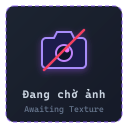
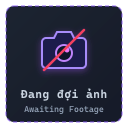
feat(stellarity): chuyen 8 mob va Ender Dragon sang placeholder Dang doi anh (BUG-79)

diff --git a/stellarity.html b/stellarity.html
@@ -1052,13 +1052,13 @@
           <!-- Đại Boss 1: Rồng Ender (Jean Rework) -->
           <article class="item-recipe-card" style="margin-bottom: 24px; border-color: rgba(168, 85, 247, 0.4);">
             <div class="item-recipe-top">
-              <div class="item-sprite-box" data-mc-tooltip="Ender Dragon" style="width: 120px; height: 120px;">
-                <img src="assets/images/entities/ender_dragon.png" alt="Ender Dragon" class="mob-render-img" loading="lazy" style="width: 110px; height: 110px;">
+              <div class="item-sprite-box" data-mc-tooltip="Đang đợi ảnh" style="width: 120px; height: 120px;">
+                <img src="assets/images/entities/placeholder_awaiting.png" alt="Đang đợi ảnh" class="placeholder-img" loading="lazy" style="width: 104px; height: 104px; object-fit: contain;">
               </div>
               <div class="item-meta">
                 <div class="item-meta-header">
                   <h3 class="item-meta-title" style="font-size: 1.25rem;">Upgraded Ender Dragon</h3>
-                  <span class="mechanic-badge badge-void">300 HP · Giáp Nội Tại · Anti-Bed Cheese</span>
+                  <span class="mechanic-badge badge-void">Đang đợi ảnh</span>
                 </div>
                 <div class="item-stats-line">Máu: 300 HP · Giáp: 12 Armor · Kháng Nổ Giường · Khiên Tinh Thể Miễn Nhiễm Sát Thương</div>
                 <p class="item-effect-desc">
@@ -1232,13 +1232,13 @@
           <!-- Đại Boss 3: Shulking (Vua Shulk) -->
           <article class="item-recipe-card" style="margin-bottom: 24px; border-color: rgba(192, 132, 252, 0.45);">
             <div class="item-recipe-top">
-              <div class="item-sprite-box" data-mc-tooltip="Đang chờ ảnh" style="width: 120px; height: 120px; background: radial-gradient(circle at center, rgba(192, 132, 252, 0.22) 0%, #070b19 80%);">
-                <img src="assets/images/entities/placeholder_awaiting.png" alt="Đang chờ ảnh" class="placeholder-img" loading="lazy" style="width: 104px; height: 104px; object-fit: contain;">
+              <div class="item-sprite-box" data-mc-tooltip="Đang đợi ảnh" style="width: 120px; height: 120px; background: radial-gradient(circle at center, rgba(192, 132, 252, 0.22) 0%, #070b19 80%);">
+                <img src="assets/images/entities/placeholder_awaiting.png" alt="Đang đợi ảnh" class="placeholder-img" loading="lazy" style="width: 104px; height: 104px; object-fit: contain;">
               </div>
               <div class="item-meta">
                 <div class="item-meta-header">
                   <h3 class="item-meta-title" style="font-size: 1.25rem;">Shulking (Vua Shulk)</h3>
-                  <span class="mechanic-badge badge-void">Boss Pháo Đài End City · Bossbar Riêng</span>
+                  <span class="mechanic-badge badge-void">Đang đợi ảnh</span>
                 </div>
                 <div class="item-stats-line">Máu cấu hình (Configurable) · Triệu hồi bằng Shulker Body tại Altar of The Sacred · Phá vỡ địa hình Purpur</div>
                 <p class="item-effect-desc">
@@ -1293,13 +1293,13 @@
             <!-- Mob 1: Enderman Rework -->
             <article class="item-recipe-card">
               <div class="item-recipe-top">
-                <div class="item-sprite-box">
-                  <img src="assets/images/entities/enderman.png" alt="Enderman 3D Render" class="mob-render-img" loading="lazy">
+                <div class="item-sprite-box" data-mc-tooltip="Đang đợi ảnh">
+                  <img src="assets/images/entities/placeholder_awaiting.png" alt="Đang đợi ảnh" class="placeholder-img" loading="lazy">
                 </div>
                 <div class="item-meta">
                   <div class="item-meta-header">
                     <h3 class="item-meta-title">Enderman (Đại Tu Cơ Chế)</h3>
-                    <span class="mechanic-badge badge-void">Xuyên Giáp Khi Không Khiên</span>
+                    <span class="mechanic-badge badge-void">Đang đợi ảnh</span>
                   </div>
                   <div class="item-stats-line">Máu: 40 HP · Sát thương: 7–10 · Tốc độ dịch chuyển x1.5</div>
                   <p class="item-effect-desc">
@@ -1324,13 +1324,13 @@
             <!-- Mob 2: Shulker & Bullet Hell -->
             <article class="item-recipe-card">
               <div class="item-recipe-top">
-                <div class="item-sprite-box">
-                  <img src="assets/images/entities/shulker.png" alt="Shulker 3D Render" class="mob-render-img" loading="lazy">
+                <div class="item-sprite-box" data-mc-tooltip="Đang đợi ảnh">
+                  <img src="assets/images/entities/placeholder_awaiting.png" alt="Đang đợi ảnh" class="placeholder-img" loading="lazy">
                 </div>
                 <div class="item-meta">
                   <div class="item-meta-header">
                     <h3 class="item-meta-title">Shulker (Quái Vỏ Cứng End City)</h3>
-                    <span class="mechanic-badge badge-stellar">Đạn Bay Lơ Lửng Dày Đặc</span>
+                    <span class="mechanic-badge badge-stellar">Đang đợi ảnh</span>
                   </div>
                   <div class="item-stats-line">Máu: 30 HP · Giáp: 20 (khi đóng vỏ) · Hiệu ứng: Levitation</div>
                   <p class="item-effect-desc">
@@ -1355,13 +1355,13 @@
             <!-- Mob 3: Frosted Stray & Harvester Mini-Boss -->
             <article class="item-recipe-card">
               <div class="item-recipe-top">
-                <div class="item-sprite-box">
-                  <img src="assets/images/entities/stray.png" alt="Frosted Stray 3D Render" class="mob-render-img" loading="lazy">
+                <div class="item-sprite-box" data-mc-tooltip="Đang đợi ảnh">
+                  <img src="assets/images/entities/placeholder_awaiting.png" alt="Đang đợi ảnh" class="placeholder-img" loading="lazy">
                 </div>
                 <div class="item-meta">
                   <div class="item-meta-header">
                     <h3 class="item-meta-title">Frosted Stray &amp; Harvester</h3>
-                    <span class="mechanic-badge badge-frost">Đợi ảnh chính thức</span>
+                    <span class="mechanic-badge badge-frost">Đang đợi ảnh</span>
                   </div>
                   <div class="item-stats-line">Máu: 20–80 HP · Sát thương: Băng giá làm chậm · Cầm đao Harvester</div>
                   <p class="item-effect-desc">
@@ -1386,8 +1386,8 @@
             <!-- Mob 4: Voided Zombie -->
             <article class="item-recipe-card">
               <div class="item-recipe-top">
-                <div class="item-sprite-box" data-mc-tooltip="Đang chờ ảnh">
-                  <img src="assets/images/entities/placeholder_awaiting.png" alt="Đang chờ ảnh" class="placeholder-img" loading="lazy">
+                <div class="item-sprite-box" data-mc-tooltip="Đang đợi ảnh">
+                  <img src="assets/images/entities/placeholder_awaiting.png" alt="Đang đợi ảnh" class="placeholder-img" loading="lazy">
                 </div>
                 <div class="item-meta">
                   <div class="item-meta-header">
@@ -1417,8 +1417,8 @@
             <!-- Mob 5: Voided Skeleton -->
             <article class="item-recipe-card">
               <div class="item-recipe-top">
-                <div class="item-sprite-box" data-mc-tooltip="Đang chờ ảnh">
-                  <img src="assets/images/entities/placeholder_awaiting.png" alt="Đang chờ ảnh" class="placeholder-img" loading="lazy">
+                <div class="item-sprite-box" data-mc-tooltip="Đang đợi ảnh">
+                  <img src="assets/images/entities/placeholder_awaiting.png" alt="Đang đợi ảnh" class="placeholder-img" loading="lazy">
                 </div>
                 <div class="item-meta">
                   <div class="item-meta-header">
@@ -1448,8 +1448,8 @@
             <!-- Mob 6: Voided Slime -->
             <article class="item-recipe-card">
               <div class="item-recipe-top">
-                <div class="item-sprite-box" data-mc-tooltip="Đang chờ ảnh">
-                  <img src="assets/images/entities/placeholder_awaiting.png" alt="Đang chờ ảnh" class="placeholder-img" loading="lazy">
+                <div class="item-sprite-box" data-mc-tooltip="Đang đợi ảnh">
+                  <img src="assets/images/entities/placeholder_awaiting.png" alt="Đang đợi ảnh" class="placeholder-img" loading="lazy">
                 </div>
                 <div class="item-meta">
                   <div class="item-meta-header">
@@ -1477,13 +1477,13 @@
             <!-- Mob 7: Phantom Hư Không -->
             <article class="item-recipe-card">
               <div class="item-recipe-top">
-                <div class="item-sprite-box">
-                  <img src="assets/images/entities/phantom.png" alt="Phantom 3D Render" class="mob-render-img" loading="lazy">
+                <div class="item-sprite-box" data-mc-tooltip="Đang đợi ảnh">
+                  <img src="assets/images/entities/placeholder_awaiting.png" alt="Đang đợi ảnh" class="placeholder-img" loading="lazy">
                 </div>
                 <div class="item-meta">
                   <div class="item-meta-header">
                     <h3 class="item-meta-title">Phantom (Bóng Ma Tuần Tra Void)</h3>
-                    <span class="mechanic-badge badge-void">Đợi ảnh chính thức</span>
+                    <span class="mechanic-badge badge-void">Đang đợi ảnh</span>
                   </div>
                   <div class="item-stats-line">Máu: 20 HP · Tốc độ lượn: Cực nhanh · Sát thương hất văng</div>
                   <p class="item-effect-desc">
@@ -1506,8 +1506,8 @@
             <!-- Mob 8: Voided Silverfish (Infestation) -->
             <article class="item-recipe-card">
               <div class="item-recipe-top">
-                <div class="item-sprite-box" data-mc-tooltip="Đang chờ ảnh">
-                  <img src="assets/images/entities/placeholder_awaiting.png" alt="Đang chờ ảnh" class="placeholder-img" loading="lazy">
+                <div class="item-sprite-box" data-mc-tooltip="Đang đợi ảnh">
+                  <img src="assets/images/entities/placeholder_awaiting.png" alt="Đang đợi ảnh" class="placeholder-img" loading="lazy">
                 </div>
                 <div class="item-meta">
                   <div class="item-meta-header">
@@ -1541,13 +1541,13 @@
             <!-- Entity 1: Pixie -->
             <article class="item-recipe-card">
               <div class="item-recipe-top">
-                <div class="item-sprite-box">
-                  <img src="assets/images/entities/pixie.png" alt="Pixie 3D Render" class="mob-render-img" loading="lazy">
+                <div class="item-sprite-box" data-mc-tooltip="Đang đợi ảnh">
+                  <img src="assets/images/entities/placeholder_awaiting.png" alt="Đang đợi ảnh" class="placeholder-img" loading="lazy">
                 </div>
                 <div class="item-meta">
                   <div class="item-meta-header">
                     <h3 class="item-meta-title">Pixie (Tinh Linh Ánh Sáng)</h3>
-                    <span class="mechanic-badge badge-hallow">Đợi ảnh chính thức</span>
+                    <span class="mechanic-badge badge-hallow">Đang đợi ảnh</span>
                   </div>
                   <div class="item-stats-line">Máu: 10 HP · Quần xã: The Hallow · 5 Sắc tố phát quang</div>
                   <p class="item-effect-desc">
@@ -1573,13 +1573,13 @@
             <!-- Entity 2: Ender Wolf -->
             <article class="item-recipe-card">
               <div class="item-recipe-top">
-                <div class="item-sprite-box">
-                  <img src="assets/images/entities/ender_wolf.png" alt="Ender Wolf 3D Render" class="mob-render-img" loading="lazy">
+                <div class="item-sprite-box" data-mc-tooltip="Đang đợi ảnh">
+                  <img src="assets/images/entities/placeholder_awaiting.png" alt="Đang đợi ảnh" class="placeholder-img" loading="lazy">
                 </div>
                 <div class="item-meta">
                   <div class="item-meta-header">
                     <h3 class="item-meta-title">Ender Wolf (Sói End Tím Thuần Hóa)</h3>
-                    <span class="mechanic-badge badge-stellar">Đợi ảnh chính thức</span>
+                    <span class="mechanic-badge badge-stellar">Đang đợi ảnh</span>
                   </div>
                   <div class="item-stats-line">Máu: 40 HP (khi thuần hóa) · Sát thương: 8 · Kháng một phần sát thương Void</div>
                   <p class="item-effect-desc">
@@ -1602,13 +1602,13 @@
             <!-- Entity 3: Ender Cat -->
             <article class="item-recipe-card">
               <div class="item-recipe-top">
-                <div class="item-sprite-box">
-                  <img src="assets/images/entities/ender_cat.png" alt="Ender Cat 3D Render" class="mob-render-img" loading="lazy">
+                <div class="item-sprite-box" data-mc-tooltip="Đang đợi ảnh">
+                  <img src="assets/images/entities/placeholder_awaiting.png" alt="Đang đợi ảnh" class="placeholder-img" loading="lazy">
                 </div>
                 <div class="item-meta">
                   <div class="item-meta-header">
                     <h3 class="item-meta-title">Ender Cat (Mèo End Xua Đuổi Quái)</h3>
-                    <span class="mechanic-badge badge-hallow">Đợi ảnh chính thức</span>
+                    <span class="mechanic-badge badge-hallow">Đang đợi ảnh</span>
                   </div>
                   <div class="item-stats-line">Máu: 20 HP · Thuần hóa bằng cá Ender Koi hoặc Frost Minnow</div>
                   <p class="item-effect-desc">
@@ -1634,8 +1634,8 @@
             <!-- Entity 4: Flesh Piglin -->
             <article class="item-recipe-card">
               <div class="item-recipe-top">
-                <div class="item-sprite-box" data-mc-tooltip="Đang chờ ảnh">
-                  <img src="assets/images/entities/placeholder_awaiting.png" alt="Đang chờ ảnh" class="placeholder-img" loading="lazy">
+                <div class="item-sprite-box" data-mc-tooltip="Đang đợi ảnh">
+                  <img src="assets/images/entities/placeholder_awaiting.png" alt="Đang đợi ảnh" class="placeholder-img" loading="lazy">
                 </div>
                 <div class="item-meta">
                   <div class="item-meta-header">
@@ -2165,8 +2165,8 @@
                 </p>
                 <div class="wing-obtain-box">
                   <span style="font-weight: 600; color: #fbbf24;">Cách lấy:</span>
-                  <span class="mc-slot" data-mc-tooltip="Phantom">
-                    <img src="assets/images/entities/phantom.png" alt="Phantom">
+                  <span class="mc-slot" data-mc-tooltip="Phantom (Đang đợi ảnh)">
+                    <img src="assets/images/entities/placeholder_awaiting.png" alt="Phantom">
                   </span>
                   <span style="font-size: 0.74rem; color: #cbd5e1;">Săn Phantom trên trời đêm (Rơi 3% – 15%)</span>
                 </div>
@@ -2191,8 +2191,8 @@
                 </p>
                 <div class="wing-obtain-box">
                   <span style="font-weight: 600; color: #fbbf24;">Cách lấy:</span>
-                  <span class="mc-slot" data-mc-tooltip="Ender Dragon">
-                    <img src="assets/images/entities/ender_dragon.png" alt="Ender Dragon">
+                  <span class="mc-slot" data-mc-tooltip="Ender Dragon (Đang đợi ảnh)">
+                    <img src="assets/images/entities/placeholder_awaiting.png" alt="Ender Dragon">
                   </span>
                   <span style="font-size: 0.74rem; color: #cbd5e1;">Hạ Rồng Ender Jean (Rơi 20%)</span>
                 </div>
@@ -2968,7 +2968,7 @@
               <div class="recipe-box">
                 <div class="recipe-box-title">CÁCH LẤY: RƯƠNG VAULT HOẶC HẠ SHULKING</div>
                 <div class="recipe-inline">
-                  <div class="mc-slot" data-mc-tooltip="Hạ Shulking Boss (Đang chờ ảnh)"><img src="assets/images/entities/placeholder_awaiting.png" alt="Shulking Boss"></div>
+                  <div class="mc-slot" data-mc-tooltip="Hạ Shulking Boss (Đang đợi ảnh)"><img src="assets/images/entities/placeholder_awaiting.png" alt="Shulking Boss"></div>
                   <span class="recipe-plus">→</span>
                   <div class="mc-slot" data-mc-tooltip="Tỉ lệ rơi 25%"><img src="assets/images/spellbooks/book_of_obstruct.png" alt="Book of Obstruct"></div>
                 </div>
@@ -3372,7 +3372,7 @@
               <div class="recipe-box">
                 <div class="recipe-box-title">CÁCH LẤY: HẠ GỤC ENDERMAN</div>
                 <div class="recipe-inline">
-                  <div class="mc-slot" data-mc-tooltip="Enderman"><img src="assets/images/entities/enderman.png" alt="Enderman"></div>
+                  <div class="mc-slot" data-mc-tooltip="Enderman (Đang đợi ảnh)"><img src="assets/images/entities/placeholder_awaiting.png" alt="Enderman"></div>
                   <span class="recipe-plus">→</span>
                   <div class="mc-slot" data-mc-tooltip="Tỉ lệ rơi 10%"><img src="assets/images/trinkets/endermans_hand.png" alt="Enderman's Hand"></div>
                 </div>
@@ -3400,7 +3400,7 @@
               <div class="recipe-box">
                 <div class="recipe-box-title">CÁCH LẤY: HẠ GỤC ENDER DRAGON</div>
                 <div class="recipe-inline">
-                  <div class="mc-slot" data-mc-tooltip="Ender Dragon"><img src="assets/images/entities/ender_dragon.png" alt="Ender Dragon"></div>
+                  <div class="mc-slot" data-mc-tooltip="Ender Dragon (Đang đợi ảnh)"><img src="assets/images/entities/placeholder_awaiting.png" alt="Ender Dragon"></div>
                   <span class="recipe-plus">→</span>
                   <div class="mc-slot" data-mc-tooltip="Tỉ lệ rơi 66%"><img src="assets/images/trinkets/life_crystal.png" alt="Life Crystal"></div>
                 </div>
@@ -3885,8 +3885,8 @@
                   <span>Tỉ lệ rơi 75% (+5%/cấp Looting)</span>
                 </div>
                 <div class="recipe-ingredients">
-                  <span class="recipe-ing mc-slot" data-mc-tooltip="Shulker">
-                    <img src="assets/images/entities/shulker.png" alt="Shulker" class="recipe-ing-icon" loading="lazy">
+                  <span class="recipe-ing mc-slot" data-mc-tooltip="Shulker (Đang đợi ảnh)">
+                    <img src="assets/images/entities/placeholder_awaiting.png" alt="Shulker" class="recipe-ing-icon" loading="lazy">
                   </span>
                   <span class="recipe-arrow">➜</span>
                   <span class="recipe-ing mc-slot" data-mc-tooltip="Shulker Body">

diff --git a/docs/03 - Development/Test Matrix & Bug Tracking.md b/docs/03 - Development/Test Matrix & Bug Tracking.md
@@ -141,6 +141,7 @@
 | **BUG-76** | P1 | Xung đột trực quan và sai lệch công thức giữa Thịt Enderman Sống (`Enderman Flesh`) và Thịt Enderman Nướng (`Grilled Enderman Flesh`): Thẻ Thịt Nướng bị broken image `[x] Enderm` do đường dẫn và công thức sai lệch (ghi lò than thay vì Breath Cauldron), thẻ Frozen Carpaccio (Gỏi Enderman Băng) lấy nhầm texture thịt nướng tím dù tooltip ghi Enderman Flesh, và còn tồn đọng link raw GitHub cho các món ăn | (1) Trích xuất và phân biệt rõ rệt 2 texture pixel art từ resource pack gốc: `Enderman Flesh` (thịt sống, màu tím đen/đen sẫm có hạt hư không) và `Grilled Enderman Flesh` (thịt nướng chín, màu tím hồng mận) upscale 64x64 Nearest Neighbor vào `assets/images/ingredients/` và `assets/images/foods/`; (2) Khắc phục lỗi xung đột ở thẻ Frozen Carpaccio: trỏ đúng ô nguyên liệu sang `enderman_flesh.png` (thịt sống); (3) Chuẩn hóa công thức chế biến của Thịt Enderman Nướng chuẩn Wiki v6: `1x Enderman Flesh + 1x Blaze Powder ➜ 1x Grilled Enderman Flesh` (Nơi nấu: Breath Cauldron, tốn 1 Breath); (4) Đồng bộ hiển thị ô Grilled Enderman Flesh ở món Phở; (5) Thay thế toàn bộ link raw GitHub của các món ẩm thực (`pho.png`, `shepherd_pie.png`, `chorus_stew.png`, `chorus_pie.png`, `sushi.png`, `golden_chorus_fruit.png`, `chorus_plating.png`) sang asset nội bộ chất lượng cao; (6) Kiểm định tự động: 336 thẻ hình ảnh (190 hình ảnh độc nhất, 0 lỗi missing), 100% thẻ HTML cân bằng. | 🟢 Đã sửa |
 | **BUG-77** | P1 | Tích hợp thực phẩm Thịt Thân Shulker (`Shulker Body`) vào danh mục ẩm thực Mục 9 trên `stellarity.html`, thay thế toàn bộ texture Shulker Body trên website bằng hình ảnh render 3D isometric chính thức do người dùng cung cấp (`media_...png`), và đồng bộ cơ chế liên quan giữa các thực thể và bệ thờ (Altar of The Sacred, Boss Shulking, Shulker mob, Shepherd's Pie) | (1) Áp dụng ảnh render 3D Isometric chính thức của Shulker Body do người dùng cung cấp, resize Nearest Neighbor $64 \times 64\text{ px}$ trên nền trong suốt alpha và ghi đè đồng bộ vào `assets/images/ingredients/shulker_body.png` và `assets/images/foods/shulker_body.png`; (2) Bổ sung thẻ Thực phẩm chuyên biệt `Thịt Thân Shulker (Shulker Body)` vào Mục 9 (`#recipe-cauldron-food`) với đầy đủ thông số: Phân loại Đồ ăn (`Thực Phẩm & Tế Lễ`), ăn vào hồi 4 điểm đói (2 đùi gà) và 0.8 độ bão hòa, dịch chuyển ngẫu nhiên tối đa 16 blocks, 30% tỷ lệ dính hiệu ứng Đói khát (Hunger) trong 40 giây, ăn được ngay cả khi đã no; (3) Chuẩn hóa cách nhận: Shulker có 75% cơ hội rơi 1 Shulker Body khi chết, mỗi cấp Looting tăng thêm +5%; (4) Cập nhật tooltip note chuẩn trích dẫn: *"They are kinda like clams"*; (5) Điều chỉnh đồng bộ thông tin của các thực thể và công thức liên quan: Mục 4.1 (Altar of The Sacred) triệu hồi Boss Shulking bằng Shulker Body; Mục 5 (Boss Shulking) phương thức triệu hồi chính thức; Mục 5 (Shulker Mob) cập nhật mô tả và bảng rơi đồ 75% (+5%/cấp Looting); Mục 9 (Bánh Shepherd's Pie) cập nhật ghi chú nguyên liệu Shulker Body rơi 75% (+5%/cấp Looting); (6) Kiểm định tự động: 339 thẻ hình ảnh (191 hình ảnh độc nhất, 0 lỗi missing), 100% thẻ HTML đóng mở cân bằng. | 🟢 Đã sửa |
 | **BUG-78** | P1 | Đại tu bố cục Mục 6.3 Nhóm 3 (Cánh Elytra Tiêu Chuẩn & 3 Mẫu Cánh Tùy Biến - Custom Wings) sang hệ thống Reusable Matrix Component Frame (`.item-matrix-card.card-wide-full`), dàn hàng ngang 4 cột cân đối, loại bỏ hoàn toàn tình trạng thẻ dọc bị ép hẹp nhảy dòng từng chữ hoặc thanh ngang xếp chồng dọc thô kệch | (1) Kế thừa và tái sử dụng triệt để kiến trúc Reusable Matrix Framework (`.item-matrix-card`, `.item-variant-matrix-grid.wings-matrix-grid`, `.wing-subcard`) vốn đã chuẩn hóa từ Void Pendant và Radiant Jewel; (2) Tách biệt hoàn toàn `.keys-horizontal-list` khỏi nhóm Cánh trong `the-end.css`, xóa bỏ triệt để các thuộc tính `display: flex !important; flex-direction: column !important;` gây lỗi xếp chồng dọc; (3) Thiết kế lưới 4 cột desktop cân đối `repeat(4, minmax(0, 1fr))`, responsive 2 cột tablet và 1 cột mobile; (4) Cấu trúc lại subcard: Sprite wrap chuẩn 52x52px, Stats line chuyên biệt, Description kéo rộng toàn bộ bề ngang subcard (~260px) giúp văn bản không bị ngắt dòng 1-2 từ/dòng; (5) Tích hợp ô hiển thị cách nhận (`.wing-obtain-box`) với Minecraft slot 32x32px và `data-mc-tooltip` chuẩn canonical; (6) Kiểm tra tự động 340 ảnh (191 ảnh độc nhất, 0 lỗi missing), 100% thẻ HTML đóng mở cân bằng. | 🟢 Đã sửa |
+| **BUG-79** | P2 | Chuyển đổi toàn bộ các thực thể/quái vật theo trích dẫn (`Enderman`, `Shulker thường`, `Frosted Stray`, `Phantom`, `Pixie`, `Ender Wolf`, `Ender Cat`) và đại Boss `Upgraded Ender Dragon` sang trạng thái placeholder "Đang đợi ảnh" (`assets/images/entities/placeholder_awaiting.png`) để chờ người dùng tự chụp footage in-game thực tế trên máy chủ | (1) Cập nhật tệp vector placeholder `placeholder_awaiting.png` hiển thị chuẩn xác thông điệp "Đang đợi ảnh / Awaiting Footage" phong cách Minecraft giao diện tối; (2) Chuyển đổi toàn bộ 8 thẻ thực thể trong Mục 5 sang sử dụng `placeholder_awaiting.png` với lớp `placeholder-img`, thuộc tính `alt="Đang đợi ảnh"` và tooltip canonical `data-mc-tooltip="Đang đợi ảnh"`; (3) Đồng bộ nhãn badge các thực thể này sang `Đang đợi ảnh`; (4) Cập nhật đồng bộ các ô slot công thức/rơi đồ liên quan (Phantom trong Cánh Phantom, Ender Dragon trong Cánh Rồng, Enderman trong Bàn tay Enderman, Ender Dragon trong Life Crystal, Shulker trong Thân Shulker) sang placeholder kèm tooltip `(Đang đợi ảnh)`; (5) Kiểm định tự động: 340 ảnh trong `stellarity.html` (183 ảnh độc nhất, 0 lỗi missing), 100% thẻ HTML cân bằng. | 🟢 Đã sửa |
 
 
 
